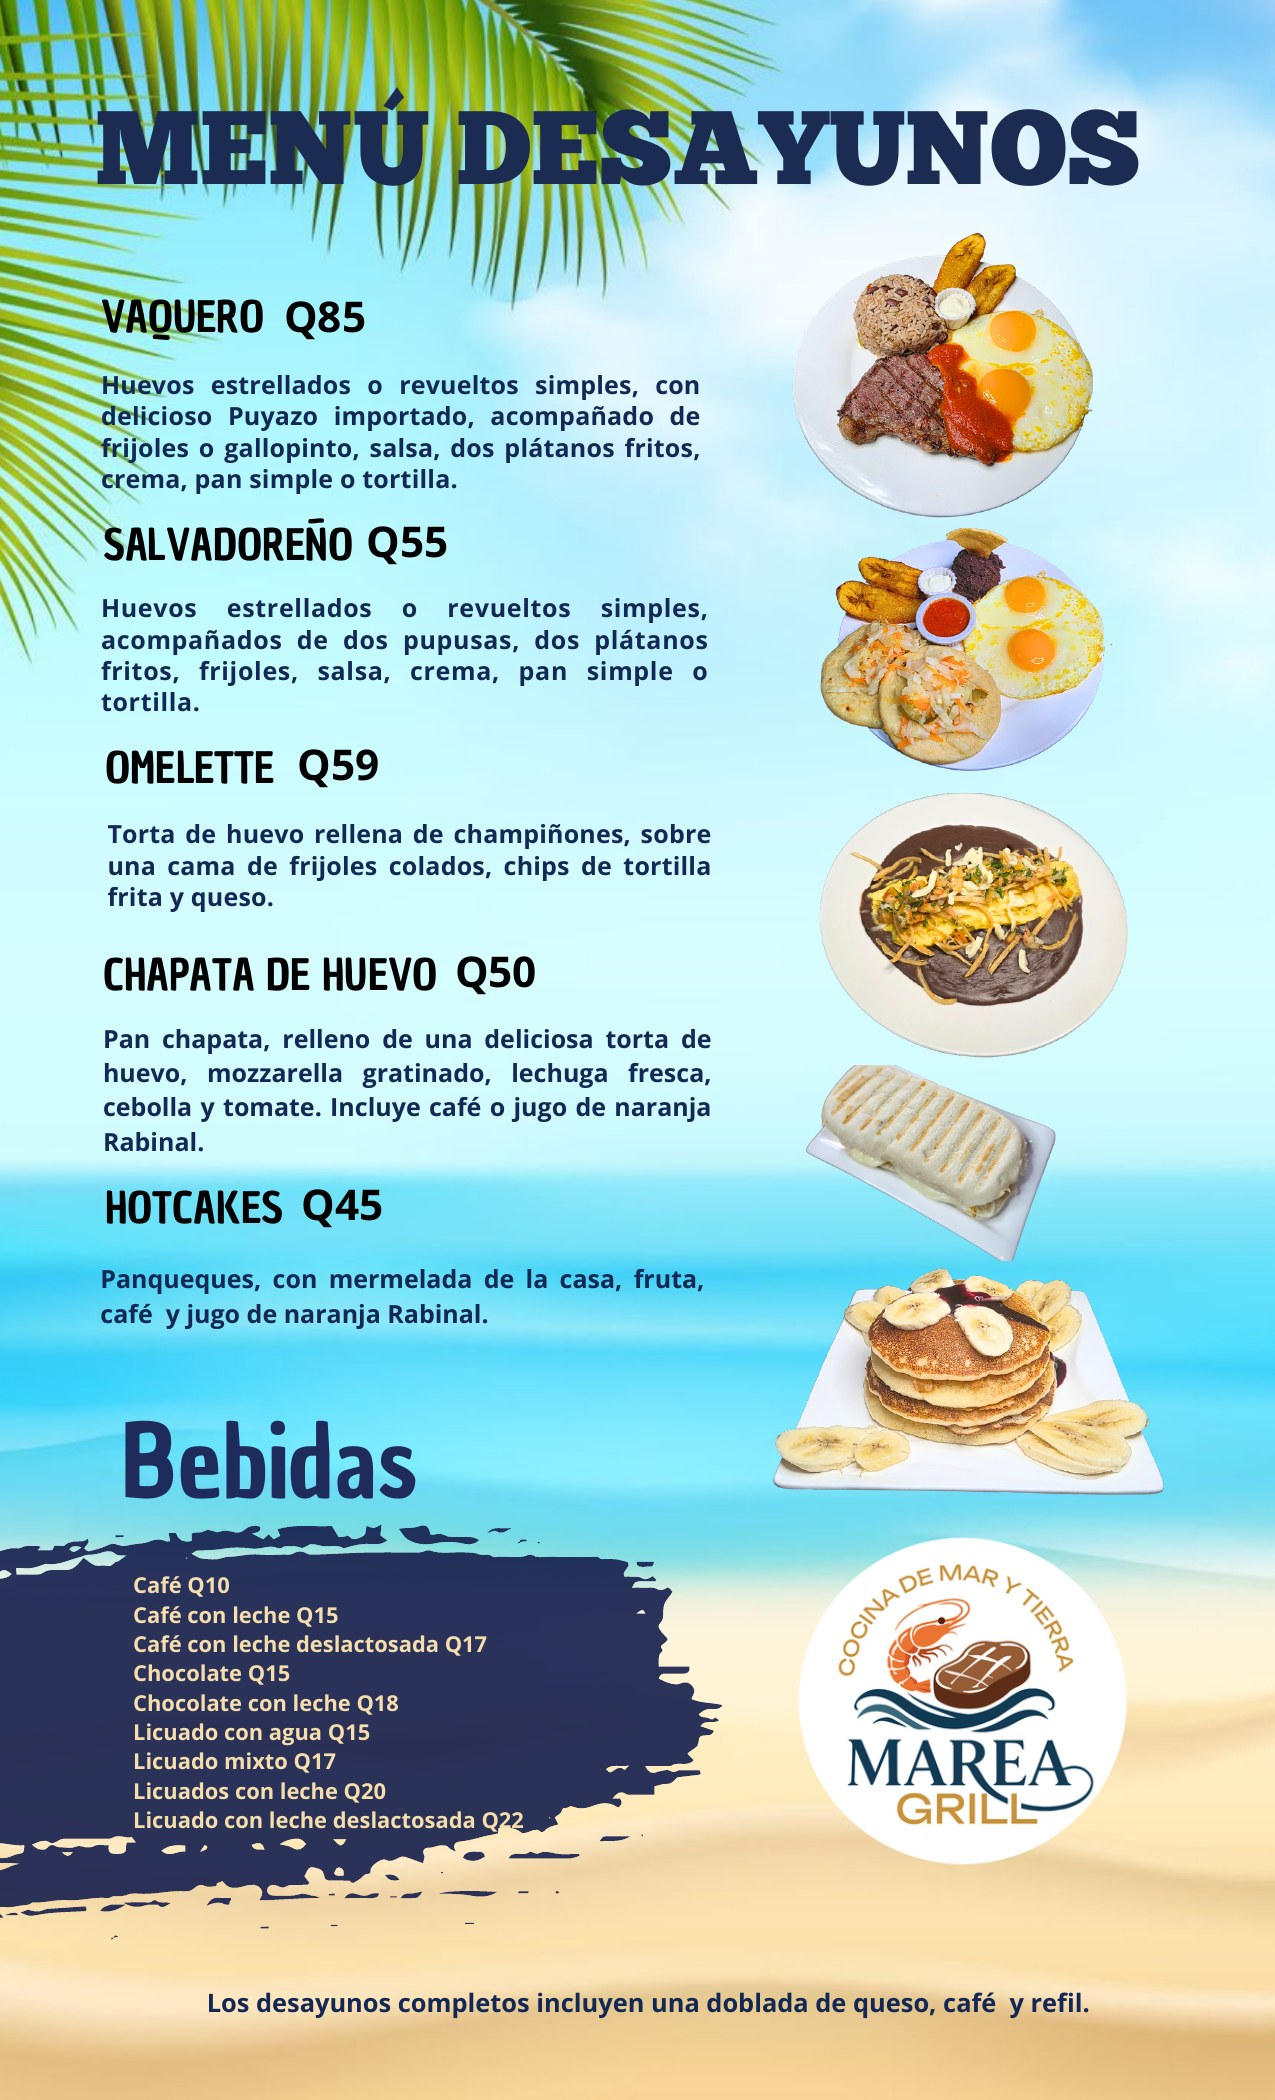
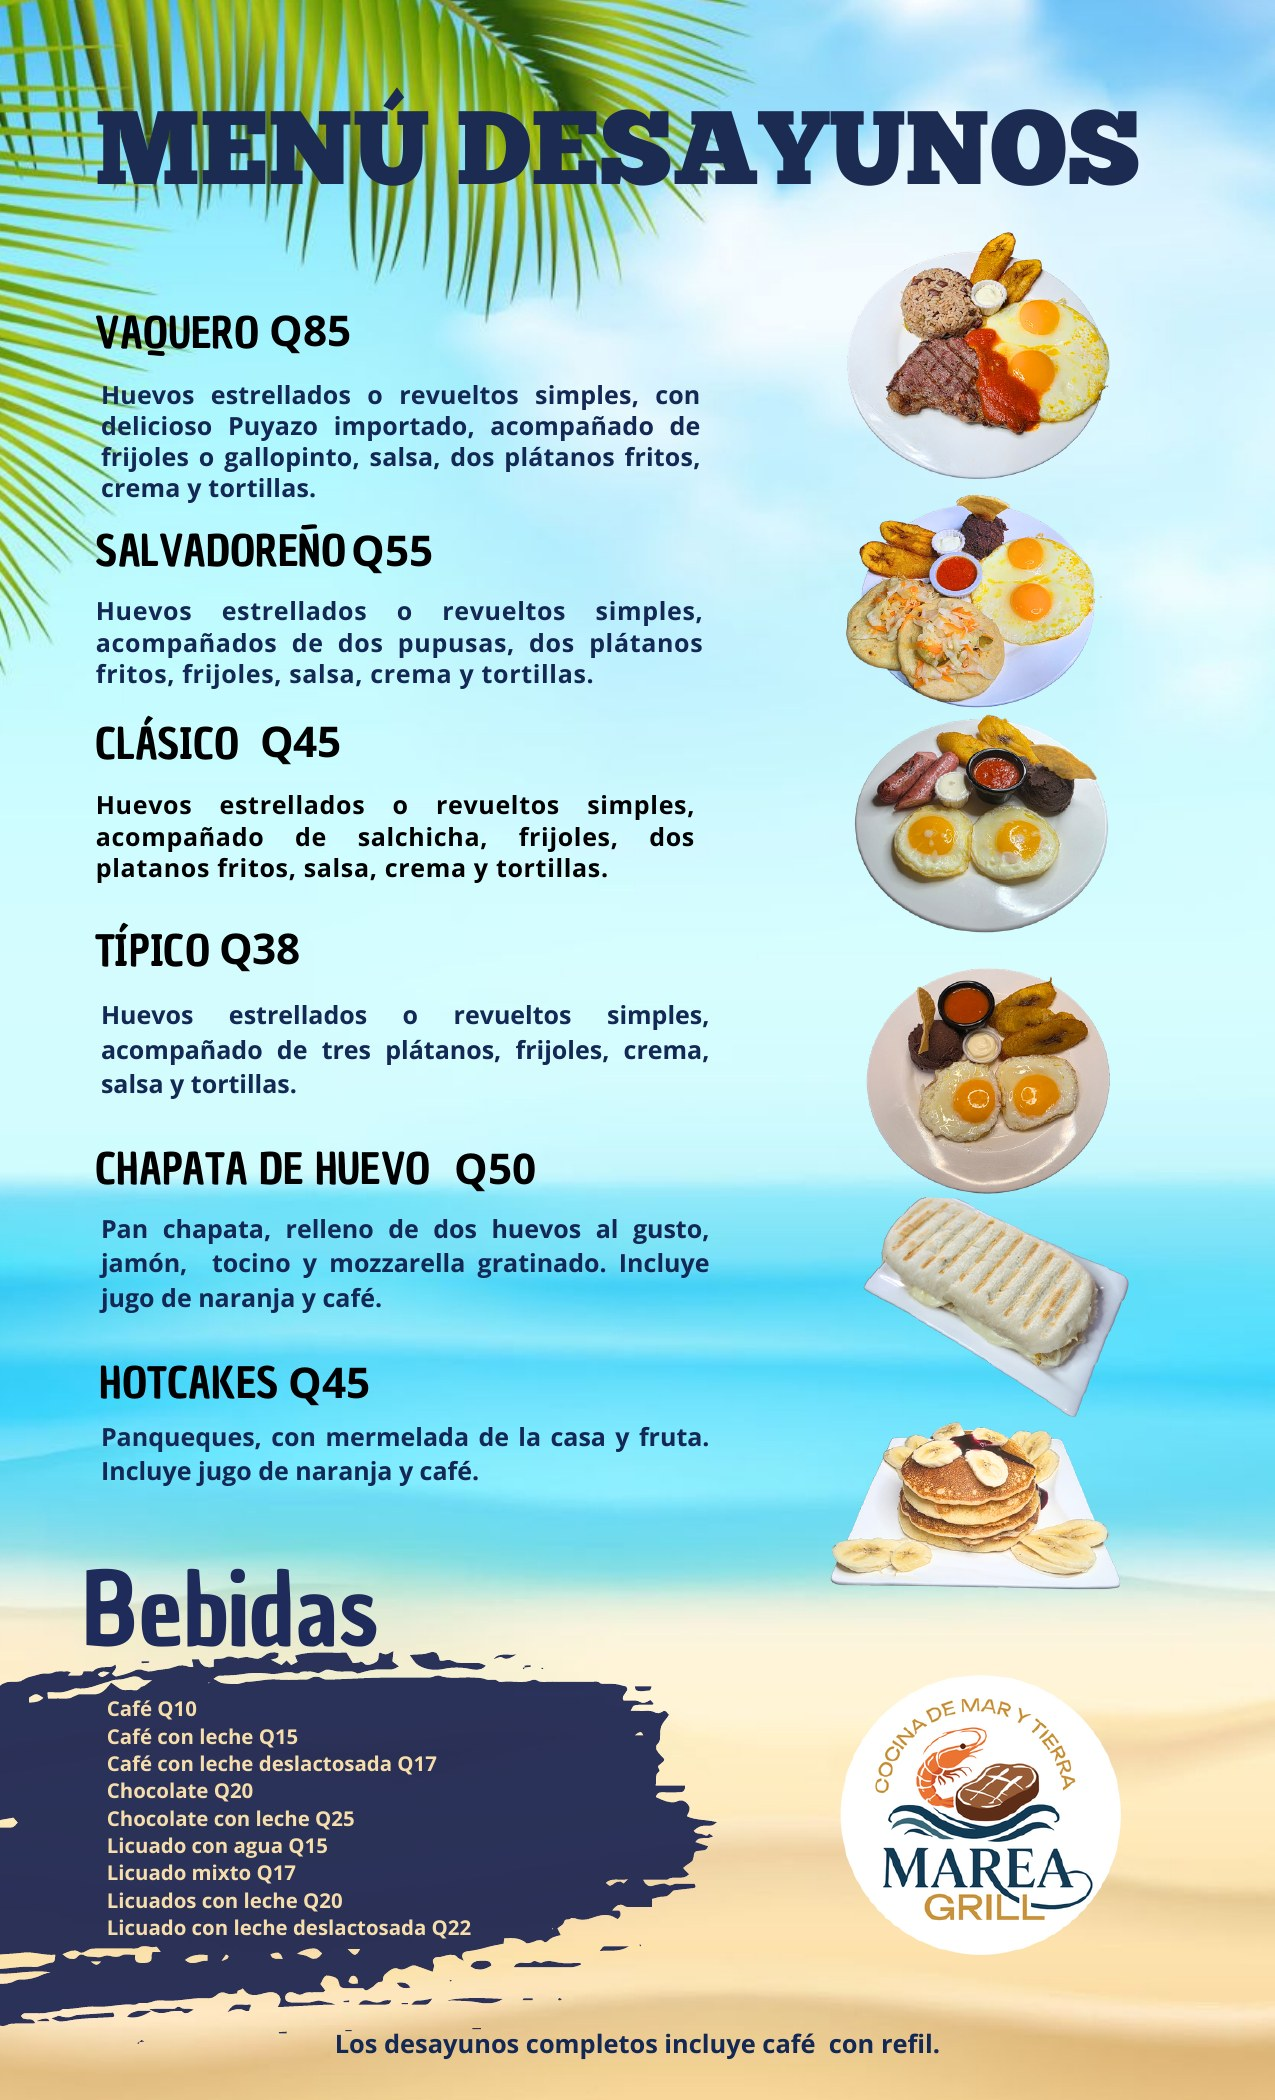
Add files via upload

diff --git a/index.html b/index.html
@@ -147,7 +147,8 @@
     <div class="zoom-wrap" onclick="toggleZoom(this)"><img src="assets/pagina-1.jpg" alt="Menú de desayunos" loading="lazy"></div>
   </div>
   <footer>
-    <div class="thanks">Gracias por elegirnos</div>
+    <div class="thanks">«Gracias por elegirnos»</div>
+    <div class="meta">Marea Grill · /MareaGrill</div>
   </footer>
 </section>
 
@@ -159,7 +160,8 @@
   </div>
   <div class="pages">
     <p class="zoom-hint">🔍 Toca la página para agrandar</p>
-    <div class="zoom-wrap" onclick="toggleZoom(this)"><img src="assets/pagina-2.jpg" alt="Menú de almuerzos" loading="lazy"></div>
+    <div class="zoom-wrap" onclick="toggleZoom(this)"><img src="assets/pagina-2.jpg" alt="Menú de almuerzos - página 1" loading="lazy"></div>
+    <div class="zoom-wrap" onclick="toggleZoom(this)"><img src="assets/pagina-3.jpg" alt="Menú de almuerzos - página 2" loading="lazy"></div>
   </div>
   <footer>
     <div class="thanks">«Gracias por elegirnos»</div>
